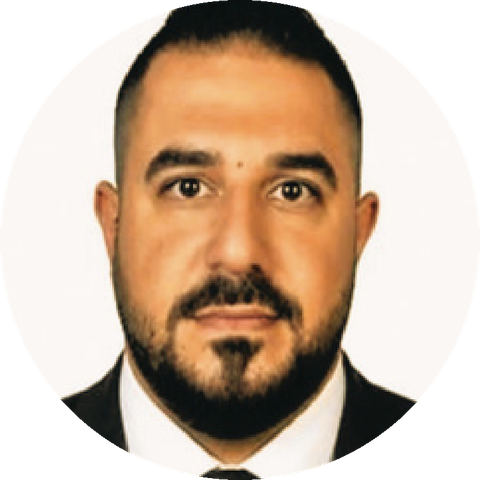
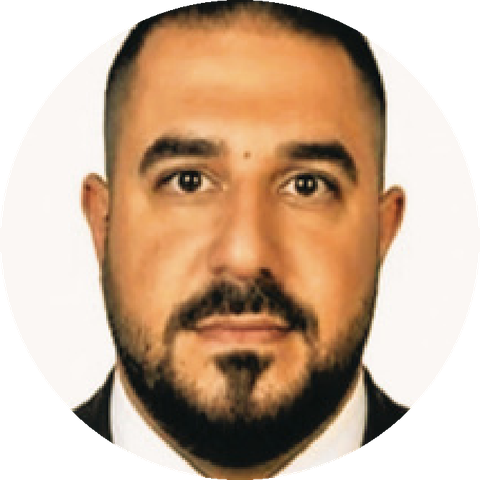
Add full CV descriptions and image galleries to project cards

diff --git a/index.html b/index.html
@@ -35,8 +35,10 @@
           <p class="role">Construction Manager &middot; Freyssinet SA &middot; 2026 - Present</p>
           <h3>U.B.A.R Diamond Interchange Implementation</h3>
           <p class="budget">Project Allocated Budget: <strong>3.2 B SAR</strong></p>
+          <p class="desc">Led multidisciplinary site teams to execute a 4.3 km RCRC infrastructure corridor comprising seven new bridges and a complex diamond interchange spanning King Salman and Anas bin Malik roads. Managed the SAR 2.6B package to elevate corridor capacity to 500,000 daily vehicles, maintaining rigorous budget controls, strict HSE compliance, and phased three-lane traffic diversions without major disruptions.</p>
           <ul><li>Led multidisciplinary site teams to execute a 4.3 km RCRC infrastructure corridor comprising seven new bridges and a complex diamond interchange spanning King Salman and Anas bin Malik roads.</li><li>Managed the SAR 2.6B package to elevate corridor capacity to 500,000 daily vehicles.</li><li>Rigorous budget controls, strict HSE compliance, and phased three-lane traffic diversions without major disruptions.</li></ul>
           
+          <div class="gallery"><a href="images/ubar-diamond-interchange-1.jpg"><img src="images/ubar-diamond-interchange-1.jpg" width="1600" height="900" alt="U.B.A.R Diamond Interchange Implementation, additional image 1" loading="lazy"></a><a href="images/ubar-diamond-interchange-2.jpg"><img src="images/ubar-diamond-interchange-2.jpg" width="1600" height="936" alt="U.B.A.R Diamond Interchange Implementation, additional image 2" loading="lazy"></a><a href="images/ubar-diamond-interchange-3.jpg"><img src="images/ubar-diamond-interchange-3.jpg" width="1600" height="669" alt="U.B.A.R Diamond Interchange Implementation, additional image 3" loading="lazy"></a></div>
         </div>
       </article>
       <article class="card" id="sports-boulevard-district-01">
@@ -45,8 +47,10 @@
           <p class="role">DLP Zones Manager &middot; Freyssinet SA &middot; 2025- 2026</p>
           <h3>Sports Boulevard: District 01 (5+ km Mega Corridor)</h3>
           <p class="budget">Project Allocated Budget: <strong>2.4 B SAR</strong></p>
+          <p class="desc">Directed a 250+ personnel team using a Procore-based digital workflow to resolve 500+ snagging items, achieving an 85% first-pass closure rate within 90 days. This initiative reduced resolution time by 35% while ensuring strict FIDIC compliance across multiple zones.</p>
           <ul><li>Directed a 250+ personnel team using a Procore-based digital workflow to resolve 500+ snagging items, achieving an 85% first-pass closure rate within 90 days.</li><li>This initiative reduced resolution time by 35% while ensuring strict FIDIC compliance across multiple zones.</li></ul>
           <p class="caption">General view of the Sports Boulevard programme. Image not specific to District 01.</p>
+          
         </div>
       </article>
       <article class="card" id="sports-boulevard-cycle-pedestrian-bridge">
@@ -55,8 +59,10 @@
           <p class="role">Site Manager &middot; Freyssinet SA &middot; 2022- 2025</p>
           <h3>Cycle &amp; Pedestrian Bridge [Sports Boulevard Foundation]</h3>
           <p class="budget">Project Allocated Budget: <strong>360 M SAR</strong></p>
+          <p class="desc">Led a 70+ multidisciplinary team to deliver two complex bridges, maintaining zero lost-time injuries (LTIs) across 400,000+ man-hours. Managed the procurement of 3,500+ tonnes of steel, reduced rework costs by 18%, and successfully recovered SAR 12M in contractual claims.</p>
           <ul><li>Led a 70+ multidisciplinary team to deliver two complex bridges, maintaining zero lost-time injuries (LTIs) across 400,000+ man-hours.</li><li>Managed the procurement of 3,500+ tonnes of steel and reduced rework costs by 18%.</li><li>Successfully recovered SAR 12M in contractual claims.</li></ul>
           
+          <div class="gallery"><a href="images/sports-boulevard-cycle-pedestrian-bridge-1.jpg"><img src="images/sports-boulevard-cycle-pedestrian-bridge-1.jpg" width="1000" height="600" alt="Cycle &amp; Pedestrian Bridge [Sports Boulevard Foundation], additional image 1" loading="lazy"></a><a href="images/sports-boulevard-cycle-pedestrian-bridge-2.jpg"><img src="images/sports-boulevard-cycle-pedestrian-bridge-2.jpg" width="1000" height="600" alt="Cycle &amp; Pedestrian Bridge [Sports Boulevard Foundation], additional image 2" loading="lazy"></a><a href="images/sports-boulevard-cycle-pedestrian-bridge-3.jpg"><img src="images/sports-boulevard-cycle-pedestrian-bridge-3.jpg" width="1000" height="600" alt="Cycle &amp; Pedestrian Bridge [Sports Boulevard Foundation], additional image 3" loading="lazy"></a></div>
         </div>
       </article>
       <article class="card" id="king-salman-park-visitors-pavilion">
@@ -65,8 +71,10 @@
           <p class="role">Senior Project Engineer &middot; Freyssinet SA &middot; 2021- 2022</p>
           <h3>Visitor’s Pavilion [King Salman Park Foundation]</h3>
           <p class="budget">Project Allocated Budget: <strong>450 M SAR</strong></p>
+          <p class="desc">Managed the complete structural steel sequence for an award winning project as best project in Middle East for its year, moreover, avoiding SAR 5M in abortive rework by pre-emptively resolving 120+ RFIs and 30 design clashes. Optimized erection and crane sequencing to save 12 calendar days on the critical path and SAR 800K in equipment costs.</p>
           <ul><li>Managed the complete structural steel sequence for an award winning project.</li><li>Avoided SAR 5M in abortive rework by pre-emptively resolving 120+ RFIs and 30 design clashes.</li><li>Optimized erection and crane sequencing to save 12 calendar days on the critical path and SAR 800K in equipment costs.</li></ul>
           
+          <div class="gallery"><a href="images/king-salman-park-visitors-pavilion-1.jpg"><img src="images/king-salman-park-visitors-pavilion-1.jpg" width="1600" height="1131" alt="Visitor’s Pavilion [King Salman Park Foundation], additional image 1" loading="lazy"></a><a href="images/king-salman-park-visitors-pavilion-2.jpg"><img src="images/king-salman-park-visitors-pavilion-2.jpg" width="1600" height="901" alt="Visitor’s Pavilion [King Salman Park Foundation], additional image 2" loading="lazy"></a><a href="images/king-salman-park-visitors-pavilion-3.jpg"><img src="images/king-salman-park-visitors-pavilion-3.jpg" width="1600" height="900" alt="Visitor’s Pavilion [King Salman Park Foundation], additional image 3" loading="lazy"></a></div>
         </div>
       </article>
       <article class="card" id="king-salman-park-om-building">
@@ -75,8 +83,10 @@
           <p class="role">Senior Project Engineer &middot; Freyssinet SA &middot; 2020- 2021</p>
           <h3>King Salman Park: O&amp;M Building</h3>
           <p class="budget">Project Allocated Budget: <strong>260 M SAR</strong></p>
+          <p class="desc">Developed the Integrated Master Schedule (IMS) to mitigate eight critical-path risks, preserving the contractual completion date. Achieved a 15% reduction in material waste through value engineering while leading weekly multi-trade coordination meetings. Managed day to day on site structural steel installations for a total of 2,050 tonnes of steel erection.</p>
           <ul><li>Developed the Integrated Master Schedule (IMS) to mitigate eight critical-path risks, preserving the contractual completion date.</li><li>Achieved a 15% reduction in material waste through value engineering while leading weekly multi-trade coordination meetings.</li><li>Day to day site management of 2,050 tonnes of steel erection.</li></ul>
           
+          <div class="gallery"><a href="images/king-salman-park-om-building-1.jpg"><img src="images/king-salman-park-om-building-1.jpg" width="1600" height="900" alt="King Salman Park: O&amp;M Building, additional image 1" loading="lazy"></a><a href="images/king-salman-park-om-building-2.jpg"><img src="images/king-salman-park-om-building-2.jpg" width="1600" height="900" alt="King Salman Park: O&amp;M Building, additional image 2" loading="lazy"></a><a href="images/king-salman-park-om-building-3.jpg"><img src="images/king-salman-park-om-building-3.jpg" width="1600" height="1032" alt="King Salman Park: O&amp;M Building, additional image 3" loading="lazy"></a></div>
         </div>
       </article>
       <article class="card" id="dgda-matal-al-bujiri">
@@ -85,8 +95,10 @@
           <p class="role">Project Engineer &middot; Freyssinet SA &middot; 2019 - 2020</p>
           <h3>D.G.D.A - Matal Al-Bujiri</h3>
           <p class="budget">Project Allocated Budget: <strong>260 M SAR</strong></p>
+          <p class="desc">Controlled the complete steel package to maintain expenditures within 3% of the baseline budget and improved erection productivity by 22%. Attained an 88% first-time approval rate on 60+ authored method statements and managed critical NDT requirements. Managed day to day structural steel activities on site amounting to a total of 980 tonnes of steel.</p>
           <ul><li>Controlled the complete steel package to maintain expenditures within 3% of the baseline budget and improved erection productivity by 22%.</li><li>Attained an 88% first-time approval rate on 60+ authored method statements and managed critical NDT requirements.</li><li>Day to day structural steel activities on site amounting to a total of 980 tonnes of steel.</li></ul>
           
+          <div class="gallery"><a href="images/dgda-matal-al-bujiri-1.jpg"><img src="images/dgda-matal-al-bujiri-1.jpg" width="1200" height="863" alt="D.G.D.A - Matal Al-Bujiri, additional image 1" loading="lazy"></a></div>
         </div>
       </article>
       <article class="card" id="riyadh-metro-western-station-3b2">
@@ -95,8 +107,10 @@
           <p class="role">Site Engineer &middot; Arabian Int. Company &middot; 2016 - 2019</p>
           <h3>Riyadh Metro: Iconic Western Station - 3B2</h3>
           <p class="budget">Project Allocated Budget: <strong>1.60 B SAR</strong></p>
+          <p class="desc">Supervised structural steel erection for a 45-person team, recovering three weeks of critical path schedule float by resolving multi-trade clashes. Maintained 18 consecutive months with zero recordable safety incidents, directly contributing to an HSE Excellence Award, for a total of 10,000 tonnes of structural steel and reinforcement steel installation.</p>
           <ul><li>Supervised structural steel erection for a 45-person team, recovering three weeks of critical path schedule float by resolving multi-trade clashes.</li><li>Maintained 18 consecutive months with zero recordable safety incidents, directly contributing to an HSE Excellence Award.</li><li>10,000 tonnes of structural and reinforcement steel installed in total.</li></ul>
           
+          <div class="gallery"><a href="images/riyadh-metro-western-station-3b2-1.jpg"><img src="images/riyadh-metro-western-station-3b2-1.jpg" width="1600" height="896" alt="Riyadh Metro: Iconic Western Station - 3B2, additional image 1" loading="lazy"></a><a href="images/riyadh-metro-western-station-3b2-2.jpg"><img src="images/riyadh-metro-western-station-3b2-2.jpg" width="1600" height="617" alt="Riyadh Metro: Iconic Western Station - 3B2, additional image 2" loading="lazy"></a><a href="images/riyadh-metro-western-station-3b2-3.jpg"><img src="images/riyadh-metro-western-station-3b2-3.jpg" width="1600" height="1064" alt="Riyadh Metro: Iconic Western Station - 3B2, additional image 3" loading="lazy"></a></div>
         </div>
       </article>
     </div>
@@ -114,7 +128,7 @@
 <footer>
   <div class="wrap">
     <h2>Image credits</h2>
-    <ul class="credits"><li><span class="cname">U.B.A.R Diamond Interchange Implementation</span>: Rendering courtesy of the Royal Commission for Riyadh City (rcrc.gov.sa), used with permission. Source: <a href="https://www.rcrc.gov.sa/en/projects/riyadh-main-and-ring-road-axes-development-program/" rel="noopener">www.rcrc.gov.sa</a>. Licence as stated: Royal Commission for Riyadh City - 2026 (c) All Rights Reserved; Terms of Use: no copying or reproduction without prior written consent; media exception with acknowledgment</li><li><span class="cname">Sports Boulevard: District 01 (5+ km Mega Corridor)</span>: Photo courtesy of Freyssinet Saudi Arabia (fsa.com.sa), used with permission. Source: <a href="https://fsa.com.sa/portfolio/sports-boulevard-arts-district-package-5/" rel="noopener">fsa.com.sa</a>. Licence as stated: (c) 2024 - All Rights Reserved (site footer); no reuse licence stated</li><li><span class="cname">Cycle &amp; Pedestrian Bridge [Sports Boulevard Foundation]</span>: Photo: Sports Boulevard Foundation, via Freyssinet Saudi Arabia (fsa.com.sa), used with permission. Source: <a href="https://fsa.com.sa/portfolio/sports-boulevard-phase-1-cycling-bridge/" rel="noopener">fsa.com.sa</a>. Licence as stated: (c) 2024 - All Rights Reserved (site footer); no reuse licence stated</li><li><span class="cname">Visitor’s Pavilion [King Salman Park Foundation]</span>: King Salman Park, via Wikimedia Commons, CC BY-SA 2.0. Source: <a href="https://commons.wikimedia.org/wiki/File:KSP_Visitor_Pavilion.jpg" rel="noopener">commons.wikimedia.org</a>. Licence as stated: Creative Commons Attribution-ShareAlike 2.0 Generic (CC BY-SA 2.0), Flickr review passed</li><li><span class="cname">King Salman Park: O&amp;M Building</span>: Photo courtesy of King Salman Park Foundation, via ArchDaily, used with permission. Source: <a href="https://www.archdaily.com/1038291/operations-and-maintenance-building-at-the-king-salman-park-omrani" rel="noopener">www.archdaily.com</a>. Licence as stated: none stated; credit line only</li><li><span class="cname">D.G.D.A - Matal Al-Bujiri</span>: Image courtesy of Benoy (benoy.com), used with permission. Source: <a href="https://www.benoy.com/projects/al-bujairi/" rel="noopener">www.benoy.com</a>. Licence as stated: none stated</li><li><span class="cname">Riyadh Metro: Iconic Western Station - 3B2</span>: Image courtesy of Arabian International Co. for Steel Structures (AIC), via Tekla BIM Awards, used with permission. Source: <a href="https://www.tekla.com/ae/bim-awards/riyadh-metro-project-line-2-western-station-3b2" rel="noopener">www.tekla.com</a>. Licence as stated: none stated</li></ul>
+    <ul class="credits"><li><span class="cname">U.B.A.R Diamond Interchange Implementation</span>: Rendering courtesy of the Royal Commission for Riyadh City (rcrc.gov.sa), used with permission. Source: <a href="https://www.rcrc.gov.sa/en/projects/riyadh-main-and-ring-road-axes-development-program/" rel="noopener">www.rcrc.gov.sa</a>. Licence as stated: Royal Commission for Riyadh City - 2026 (c) All Rights Reserved; Terms of Use: no copying or reproduction without prior written consent; media exception with acknowledgment</li><li><span class="cname">U.B.A.R Diamond Interchange Implementation (gallery 1)</span>: Rendering courtesy of the Royal Commission for Riyadh City (rcrc.gov.sa), used with permission. Source: <a href="https://www.rcrc.gov.sa/en/projects/riyadh-main-and-ring-road-axes-development-program/" rel="noopener">www.rcrc.gov.sa</a>. Licence as stated: Royal Commission for Riyadh City - 2026 (c) All Rights Reserved; Terms of Use: no copying or reproduction without prior written consent; media exception with acknowledgment</li><li><span class="cname">U.B.A.R Diamond Interchange Implementation (gallery 2)</span>: Image courtesy of the Royal Commission for Riyadh City (rcrc.gov.sa), used with permission. Source: <a href="https://www.rcrc.gov.sa/en/230973-3/" rel="noopener">www.rcrc.gov.sa</a>. Licence as stated: Royal Commission for Riyadh City - 2026 (c) All Rights Reserved; Terms of Use: no copying or reproduction without prior written consent; media exception with acknowledgment</li><li><span class="cname">U.B.A.R Diamond Interchange Implementation (gallery 3)</span>: Photo: Al Riyadh newspaper (alriyadh.com), used with permission. Source: <a href="https://www.alriyadh.com/2189832" rel="noopener">www.alriyadh.com</a>. Licence as stated: none stated (newspaper copyright implied)</li><li><span class="cname">Sports Boulevard: District 01 (5+ km Mega Corridor)</span>: Photo courtesy of Freyssinet Saudi Arabia (fsa.com.sa), used with permission. Source: <a href="https://fsa.com.sa/portfolio/sports-boulevard-arts-district-package-5/" rel="noopener">fsa.com.sa</a>. Licence as stated: (c) 2024 - All Rights Reserved (site footer); no reuse licence stated</li><li><span class="cname">Cycle &amp; Pedestrian Bridge [Sports Boulevard Foundation]</span>: Photo: Sports Boulevard Foundation, via Freyssinet Saudi Arabia (fsa.com.sa), used with permission. Source: <a href="https://fsa.com.sa/portfolio/sports-boulevard-phase-1-cycling-bridge/" rel="noopener">fsa.com.sa</a>. Licence as stated: (c) 2024 - All Rights Reserved (site footer); no reuse licence stated</li><li><span class="cname">Cycle &amp; Pedestrian Bridge [Sports Boulevard Foundation] (gallery 1)</span>: Photo: Sports Boulevard Foundation, via Freyssinet Saudi Arabia (fsa.com.sa), used with permission. Source: <a href="https://fsa.com.sa/portfolio/sports-boulevard-phase-1-cycling-bridge/" rel="noopener">fsa.com.sa</a>. Licence as stated: (c) 2024 - All Rights Reserved (site footer); no reuse licence stated</li><li><span class="cname">Cycle &amp; Pedestrian Bridge [Sports Boulevard Foundation] (gallery 2)</span>: Photo courtesy of Freyssinet Saudi Arabia (fsa.com.sa), used with permission. Source: <a href="https://fsa.com.sa/portfolio/sports-boulevard-phase-1-cycling-bridge/" rel="noopener">fsa.com.sa</a>. Licence as stated: (c) 2024 - All Rights Reserved (site footer); no reuse licence stated</li><li><span class="cname">Cycle &amp; Pedestrian Bridge [Sports Boulevard Foundation] (gallery 3)</span>: Photo courtesy of Freyssinet Saudi Arabia (fsa.com.sa), used with permission. Source: <a href="https://fsa.com.sa/portfolio/sports-boulevard-phase-1-cycling-bridge/" rel="noopener">fsa.com.sa</a>. Licence as stated: (c) 2024 - All Rights Reserved (site footer); no reuse licence stated</li><li><span class="cname">Visitor’s Pavilion [King Salman Park Foundation]</span>: King Salman Park, via Wikimedia Commons, CC BY-SA 2.0. Source: <a href="https://commons.wikimedia.org/wiki/File:KSP_Visitor_Pavilion.jpg" rel="noopener">commons.wikimedia.org</a>. Licence as stated: Creative Commons Attribution-ShareAlike 2.0 Generic (CC BY-SA 2.0), Flickr review passed</li><li><span class="cname">Visitor’s Pavilion [King Salman Park Foundation] (gallery 1)</span>: King Salman Park, via Wikimedia Commons, CC BY-SA 2.0. Source: <a href="https://commons.wikimedia.org/wiki/File:King_Salman_Park-_Visitor_Pavilion.jpg" rel="noopener">commons.wikimedia.org</a>. Licence as stated: Creative Commons Attribution-ShareAlike 2.0 Generic (CC BY-SA 2.0), Flickr review passed</li><li><span class="cname">Visitor’s Pavilion [King Salman Park Foundation] (gallery 2)</span>: Photo courtesy of Earthman (earthman.at), used with permission. Source: <a href="https://earthman.at/project/visitors-pavilion-king-salman-park/" rel="noopener">earthman.at</a>. Licence as stated: none stated</li><li><span class="cname">Visitor’s Pavilion [King Salman Park Foundation] (gallery 3)</span>: Photo courtesy of King Salman Park Foundation (kingsalmanpark.sa), used with permission. Source: <a href="https://kingsalmanpark.sa/en/news/visitorscenter" rel="noopener">kingsalmanpark.sa</a>. Licence as stated: none stated</li><li><span class="cname">King Salman Park: O&amp;M Building</span>: Photo courtesy of King Salman Park Foundation, via ArchDaily, used with permission. Source: <a href="https://www.archdaily.com/1038291/operations-and-maintenance-building-at-the-king-salman-park-omrani" rel="noopener">www.archdaily.com</a>. Licence as stated: none stated; credit line only</li><li><span class="cname">King Salman Park: O&amp;M Building (gallery 1)</span>: Photo courtesy of King Salman Park Foundation, via ArchDaily, used with permission. Source: <a href="https://www.archdaily.com/1038291/operations-and-maintenance-building-at-the-king-salman-park-omrani" rel="noopener">www.archdaily.com</a>. Licence as stated: none stated; credit line only</li><li><span class="cname">King Salman Park: O&amp;M Building (gallery 2)</span>: Photo courtesy of King Salman Park Foundation, via ArchDaily, used with permission. Source: <a href="https://www.archdaily.com/1038291/operations-and-maintenance-building-at-the-king-salman-park-omrani" rel="noopener">www.archdaily.com</a>. Licence as stated: none stated; credit line only</li><li><span class="cname">King Salman Park: O&amp;M Building (gallery 3)</span>: Source: archup.net, original photographer unknown, used with permission. Source: <a href="https://archup.net/king-salman-park-project-the-operations-and-maintenance/" rel="noopener">archup.net</a>. Licence as stated: (c) 2026 ArchUp site notice; no image licence</li><li><span class="cname">D.G.D.A - Matal Al-Bujiri</span>: Image courtesy of Benoy (benoy.com), used with permission. Source: <a href="https://www.benoy.com/projects/al-bujairi/" rel="noopener">www.benoy.com</a>. Licence as stated: none stated</li><li><span class="cname">D.G.D.A - Matal Al-Bujiri (gallery 1)</span>: Image courtesy of Benoy (benoy.com), used with permission. Source: <a href="https://www.benoy.com/projects/al-bujairi/" rel="noopener">www.benoy.com</a>. Licence as stated: none stated</li><li><span class="cname">Riyadh Metro: Iconic Western Station - 3B2</span>: Image courtesy of Arabian International Co. for Steel Structures (AIC), via Tekla BIM Awards, used with permission. Source: <a href="https://www.tekla.com/ae/bim-awards/riyadh-metro-project-line-2-western-station-3b2" rel="noopener">www.tekla.com</a>. Licence as stated: none stated</li><li><span class="cname">Riyadh Metro: Iconic Western Station - 3B2 (gallery 1)</span>: Image courtesy of CREW Cremonesi Workshop (crew.it), used with permission. Source: <a href="https://www.crew.it/en/projects/western-station" rel="noopener">www.crew.it</a>. Licence as stated: CREW Cremonesi Workshop. All rights reserved.</li><li><span class="cname">Riyadh Metro: Iconic Western Station - 3B2 (gallery 2)</span>: Photo (c) Omrania (omrania.com), used with permission. Source: <a href="https://omrania.com/project/arriyadh-metro-western-station/" rel="noopener">omrania.com</a>. Licence as stated: Copyright (c) 2026 Omrania. All rights reserved.</li><li><span class="cname">Riyadh Metro: Iconic Western Station - 3B2 (gallery 3)</span>: Image courtesy of 3TI Progetti (3tiprogetti.it), used with permission. Source: <a href="https://www.3tiprogetti.it/projects/riyadh-metro-line-3-western-station-3b2/" rel="noopener">www.3tiprogetti.it</a>. Licence as stated: (c) 2026 3TI Progetti</li></ul>
     <p class="fine">Project images are shown with the permission of their owners as noted above. Site text follows the printed CV; no figures have been altered.</p>
   </div>
 </footer>

diff --git a/style.css b/style.css
@@ -24,6 +24,10 @@ h2{color:var(--navy);font-size:1.5rem;margin:0 0 6px}
 .budget{margin:0 0 10px;font-size:.92rem;color:var(--muted)}
 .card ul{margin:0;padding-left:18px;font-size:.95rem}
 .card li{margin:0 0 6px}
+.desc{margin:0 0 10px;font-size:.95rem}
+.card ul{display:none}
+.gallery{display:grid;grid-template-columns:repeat(3,1fr);gap:6px;margin-top:12px}
+.gallery img{width:100%;height:auto;aspect-ratio:4/3;object-fit:cover;border-radius:6px;display:block;background:#dfe3ee}
 .caption{margin:10px 0 0;font-size:.82rem;color:var(--muted);font-style:italic}
 #contact{margin-top:40px}
 .contact{list-style:none;padding:0;margin:8px 0 0}
